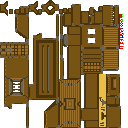
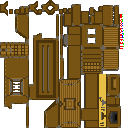
updated workshop and masonry texture to include log insert area. masonry and workshop now have resource counter and resource insert animation.

Changed region(s): [[0.8438, 0.8438, 0.9375, 0.9688]]

diff --git a/rocky_shores/src/buildings/Building.java b/rocky_shores/src/buildings/Building.java
@@ -1,5 +1,7 @@
 package buildings;
 
+import java.util.ArrayList;
+
 import mesh.Material;
 import mesh.Mesh;
 import sprite.Sprite;
@@ -8,12 +10,14 @@ import model.Model;
 
 public class Building extends Sprite{
 	private boolean isBuilt = false;
-	private double buildAmount = 0;	//0 = none, 1 = all
+	private double buildAmount = 1;	//0 = none, 1 = all
 	private double buildSpeed = 0.0005f;
 	private int workers = 0;
 	private Fence fence = null;
 	private float padding = 0.02f;
 	private BuildingTypes buildingTypes;
+	private Model model;
+	private ArrayList<Sprite> resource = new ArrayList<Sprite>();
 	
 	public Building(BuildingTypes t, Material tex[], float x, float z){
 		super(tex, x, 0.0f, z);
@@ -25,12 +29,13 @@ public class Building extends Sprite{
 		super.setType(SpriteTypes.BUILDING);
 	}
 	
-	public Building(BuildingTypes t, Mesh m, float x, float z, Model model, float scale){
+	public Building(BuildingTypes t, Mesh m, float x, float z, Model mod, float scale){
 		super(m);
 		super.setType(SpriteTypes.BUILDING);
 		super.setMesh(m);
 		super.setX(x);
 		super.setZ(z);
+		model = mod;
 		
 		fence = new Fence(m.getLeft() * scale - padding, m.getBack() * scale - padding,
 				m.getRight() * scale + padding, m.getBack() * scale - padding,
@@ -46,11 +51,12 @@ public class Building extends Sprite{
 		buildingTypes = t;
 	}
 	
-	public Building(BuildingTypes t, float x, float z, float scale, Model model, Mesh... m){
+	public Building(BuildingTypes t, float x, float z, float scale, Model mod, Mesh... m){
 		super(m);
 		super.setType(SpriteTypes.BUILDING);
 		super.setX(x);
 		super.setZ(z);
+		model = mod;
 		
 		fence = new Fence(m[0].getLeft() * scale - padding, m[0].getBack() * scale - padding,
 				m[0].getRight() * scale + padding, m[0].getBack() * scale - padding,
@@ -138,7 +144,26 @@ public class Building extends Sprite{
 		return buildingTypes;
 	}
 	
-	public void addResource(){
-		//que++;
+	public ArrayList<Sprite> getResource(){
+		return resource;
+	}
+	
+	public void addResource(Sprite m){
+		Sprite res;
+		res = new Sprite(m.getMesh()[0]);
+		res.setWidth(m.getWidth());
+		res.setHeight(m.getHeight());
+		res.setDepth(m.getDepth());
+		
+		res.setX(super.getX());
+		res.setZ(super.getZ());
+		
+		model.getSpriteList().add(res);
+		resource.add(res);
+		//s.setParent(null);
+	}
+	
+	public Model getMod(){
+		return model;
 	}
 }

diff --git a/rocky_shores/src/buildings/WorkShop.java b/rocky_shores/src/buildings/WorkShop.java
@@ -1,10 +1,12 @@
 package buildings;
 
+import sprite.Sprite;
 import mesh.Mesh;
 import model.Model;
 
 public class WorkShop extends Building{
 	private final static float scale = 0.025f;
+	private int que = 0, timeRemain = 50;
 	
 	public WorkShop(Mesh m, float x, float z, Model model) {
 		super(BuildingTypes.WORKSHOP, x, z, scale, model,  m);
@@ -13,7 +15,34 @@ public class WorkShop extends Building{
 		super.setDepth(scale);
 	}
 
-	public void addResource(){
-		System.out.println("wood get");
+	public void addResource(Sprite m){
+		super.addResource(m);
+		
+		super.getResource().get(super.getResource().size() - 1).setX(super.getX() - 0.1f);
+		super.getResource().get(super.getResource().size() - 1).setY(0.04f);
+		super.getResource().get(super.getResource().size() - 1).setXVel(0.0005f);
+		super.getResource().get(super.getResource().size() - 1).setYRot(90.0f);
+		super.getResource().get(super.getResource().size() - 1).setWidth(super.getResource().get(super.getResource().size() - 1).getWidth() + 0.005f);
+		super.getResource().get(super.getResource().size() - 1).setDepth(super.getResource().get(super.getResource().size() - 1).getDepth() + 0.005f);
+		super.getResource().get(super.getResource().size() - 1).setHeight(super.getResource().get(super.getResource().size() - 1).getHeight() + 0.005f);
+		//super.getResource().setYVel(0.001f);
+	}
+	
+	public void update(){
+		super.update();
+		
+		for(int i = 0; i < super.getResource().size(); i++){
+			if(super.getResource().get(i).getX() > super.getX() - 0.04f){
+				super.getResource().get(i).setAlive(false);
+			}
+		}
+		
+		if(que > 0){
+			timeRemain--;
+			if(timeRemain <= 0){
+				timeRemain = 200;
+				//super.getMod().getSpriteList().add(new Sprite)
+			}
+		}
 	}
 }

diff --git a/rocky_shores/src/model/Model.java b/rocky_shores/src/model/Model.java
@@ -84,7 +84,7 @@ public class Model {
 	//textures
 	private String texturePath[] = {"res/pack.png", "res/fence.png", "res/island.png", "res/water1.png", "res/pickaxe.png",
 			"res/water2.png", "res/water3.png", "res/hammer.png", "res/sword.png", "res/woodaxe.png",
-			"res/particles/water1.png", "res/particles/water2.png", "res/particles/water3.png", "res/particles/tree.png", "res/matr.png"};	//holds textures
+			"res/particles/water1.png", "res/particles/water2.png", "res/particles/water3.png", "res/particles/tree.png"};	//holds textures
 	private Texture texturePack[];	//holds raw texture data
 	private ArrayList<Material> materials;	//holds textures
 	private ArrayList<Material> mobMats = new ArrayList<Material>();
@@ -353,11 +353,12 @@ public class Model {
 		for(int i = 0; i < spriteList.size(); i++){
 			if(spriteList.get(i) == null){
 				System.out.println("null sprite @: " + i);
-			}
-			if(!spriteList.get(i).isAlive()){
 				spriteList.remove(i);
+			}else if(!spriteList.get(i).isAlive()){
+				spriteList.remove(i);
+			}else{
+				spriteList.get(i).update();
 			}
-			spriteList.get(i).update();
 		}
 		
 		for(int i = 0; i < miters.size(); i++){

diff --git a/rocky_shores/src/buildings/Masonry.java b/rocky_shores/src/buildings/Masonry.java
@@ -1,14 +1,47 @@
 package buildings;
 
+import sprite.Sprite;
 import mesh.Mesh;
 import model.Model;
 
 public class Masonry extends Building{
 	private final static float scale = 0.023f;
+	private int que = 0, timeRemain = 50;
+	
 	public Masonry(Mesh m, float x, float z, Model model){
 		super(BuildingTypes.MASONRY, m, x, z, model, scale);
 		super.setWidth(scale);
 		super.setHeight(scale);
 		super.setDepth(scale);
+	}
+	
+	public void addResource(Sprite m){
+		super.addResource(m);
+		
+		super.getResource().get(super.getResource().size() - 1).setX(super.getX() - 0.08f);
+		super.getResource().get(super.getResource().size() - 1).setY(0.03f);
+		super.getResource().get(super.getResource().size() - 1).setXVel(0.0005f);
+		//super.getResource().setYVel(0.001f);
+	}
+	
+	public void update(){
+		super.update();
+		
+		for(int i = 0; i < super.getResource().size(); i++){
+			if(super.getResource().get(i).getX() > super.getX() - 0.04f){
+				super.getResource().get(i).setAlive(false);
+				que++;
+				
+				super.getResource().remove(i);
+			}
+		}
+		
+		if(que > 0){
+			timeRemain--;
+			if(timeRemain <= 0){
+				timeRemain = 200;
+				
+			}
+		}
 	}
 }

diff --git a/rocky_shores/src/mob/Peasant.java b/rocky_shores/src/mob/Peasant.java
@@ -9,7 +9,6 @@ import resorsers.Resource;
 import sprite.Orientation;
 import sprite.Sprite;
 import sprite.SpriteTypes;
-import world.World;
 import mesh.Material;
 import mesh.Mesh;
 import model.Model;
@@ -287,7 +286,7 @@ public class Peasant extends Mob{
 			
 			if(hasResource){
 				hasResource = false;
-				((Building) target).addResource();
+				((Building) target).addResource(item);
 				findTarget();
 				calcTarget();
 			}
@@ -306,7 +305,7 @@ public class Peasant extends Mob{
 			
 			if(hasResource){
 				hasResource = false;
-				((Building) target).addResource();
+				((Building) target).addResource(item);
 				findTarget();
 				calcTarget();
 			}
